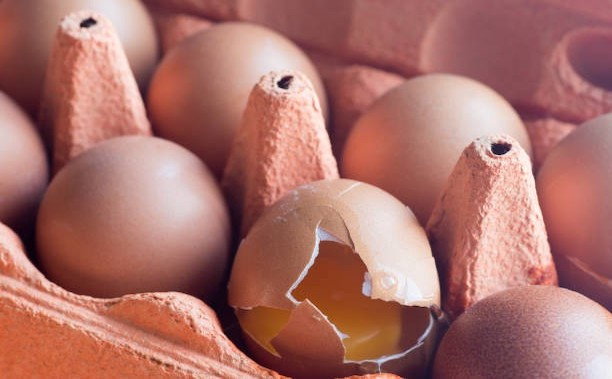
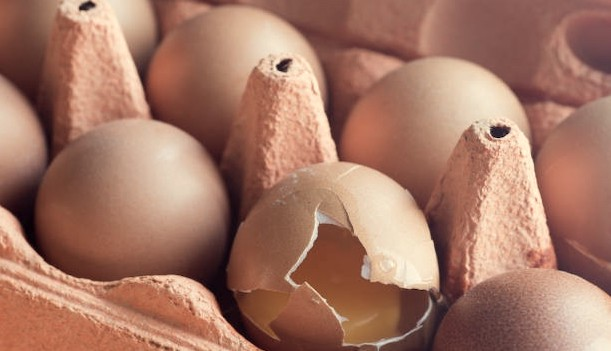
projects and images

diff --git a/index.html b/index.html
@@ -1470,7 +1470,7 @@
     
     
     <a href="https://bricechivu.medium.com/damage-claims-analysis-c31b88a427f7" target="_blank" rel="noopener" class="card-image hover-overlay">
-      <img src="/project/gender-inference/featured_hu18313ca789208b1a17cf7fdba12ee0cf_42149_81193cb7649c3e3d6674b3cfaa4a959c.jpg" data-src="/project/gender-inference/featured_hu18313ca789208b1a17cf7fdba12ee0cf_42149_550x0_resize_q75_lanczos.jpg" alt="Gender inference" class="img-responsive lazyload">
+      <img src="/project/gender-inference/featured_hufc958c2424357ae6ce05d5574de4a868_5705354_b02675a92f22e16f5c7ed41c918d4e30.jpg" data-src="/project/gender-inference/featured_hufc958c2424357ae6ce05d5574de4a868_5705354_550x0_resize_q75_lanczos.jpg" alt="Gender inference" class="img-responsive lazyload">
     </a>
     
     <div class="card-text">
@@ -1518,7 +1518,7 @@
     
     
     <a href="https://bricechivu.medium.com/damage-claims-analysis-c31b88a427f7" target="_blank" rel="noopener" class="card-image hover-overlay">
-      <img src="/project/damage-claims/featured_hu4524a0992f8d120dd641c7d88e313c66_47508_1c4c45767241324c34f9aa4bf0fd6900.jpeg" data-src="/project/damage-claims/featured_hu4524a0992f8d120dd641c7d88e313c66_47508_550x0_resize_q75_lanczos.jpeg" alt="Products Damage claims" class="img-responsive lazyload">
+      <img src="/project/damage-claims/featured_hu2a37a5d623eebef719a8f7c3bc1732e9_44264_da117d6b4c96494327ee2ffb79750bc5.jpeg" data-src="/project/damage-claims/featured_hu2a37a5d623eebef719a8f7c3bc1732e9_44264_550x0_resize_q75_lanczos.jpeg" alt="Products Damage claims" class="img-responsive lazyload">
     </a>
     
     <div class="card-text">
@@ -1566,7 +1566,7 @@
     
     
     <a href="https://bricechivu.medium.com/how-to-reshuffle-a-warehouse-using-python-be732ec77512" target="_blank" rel="noopener" class="card-image hover-overlay">
-      <img src="/project/warehouse-reshuffling/featured_hu60d21ed4044911b88ff6f50572140466_38932_ae48228f0e4ab88629dfff325877abb4.jpeg" data-src="/project/warehouse-reshuffling/featured_hu60d21ed4044911b88ff6f50572140466_38932_550x0_resize_q75_lanczos.jpeg" alt="Warehouse Reshuffling" class="img-responsive lazyload">
+      <img src="/project/warehouse-reshuffling/featured_hue654e360dfcff4e32b9ece980d11bc3c_43957_f10b8681b77ce77be581af71ae54c4c0.jpeg" data-src="/project/warehouse-reshuffling/featured_hue654e360dfcff4e32b9ece980d11bc3c_43957_550x0_resize_q75_lanczos.jpeg" alt="Warehouse Reshuffling" class="img-responsive lazyload">
     </a>
     
     <div class="card-text">

diff --git a/project/gender-inference/index.html b/project/gender-inference/index.html
@@ -775,6 +775,8 @@
 
   
   
+    
+  
 
 
 <div class="article-container pt-3">
@@ -872,9 +874,9 @@
 </div>
 
 
-<div class="article-header article-container featured-image-wrapper mt-4 mb-4" style="max-width: 612px; max-height: 379px;">
+<div class="article-header article-container featured-image-wrapper mt-4 mb-4" style="max-width: 720px; max-height: 422px;">
   <div style="position: relative">
-    <img src="/project/gender-inference/featured.jpg" alt="" class="featured-image">
+    <img src="/project/gender-inference/featured_hufc958c2424357ae6ce05d5574de4a868_5705354_720x0_resize_q75_lanczos.jpg" alt="" class="featured-image">
     
   </div>
 </div>

diff --git a/project/warehouse-reshuffling/index.html b/project/warehouse-reshuffling/index.html
@@ -872,7 +872,7 @@
 </div>
 
 
-<div class="article-header article-container featured-image-wrapper mt-4 mb-4" style="max-width: 612px; max-height: 379px;">
+<div class="article-header article-container featured-image-wrapper mt-4 mb-4" style="max-width: 612px; max-height: 354px;">
   <div style="position: relative">
     <img src="/project/warehouse-reshuffling/featured.jpeg" alt="" class="featured-image">
     

diff --git a/project/damage-claims/index.html b/project/damage-claims/index.html
@@ -872,7 +872,7 @@
 </div>
 
 
-<div class="article-header article-container featured-image-wrapper mt-4 mb-4" style="max-width: 612px; max-height: 379px;">
+<div class="article-header article-container featured-image-wrapper mt-4 mb-4" style="max-width: 611px; max-height: 351px;">
   <div style="position: relative">
     <img src="/project/damage-claims/featured.jpeg" alt="" class="featured-image">
     
